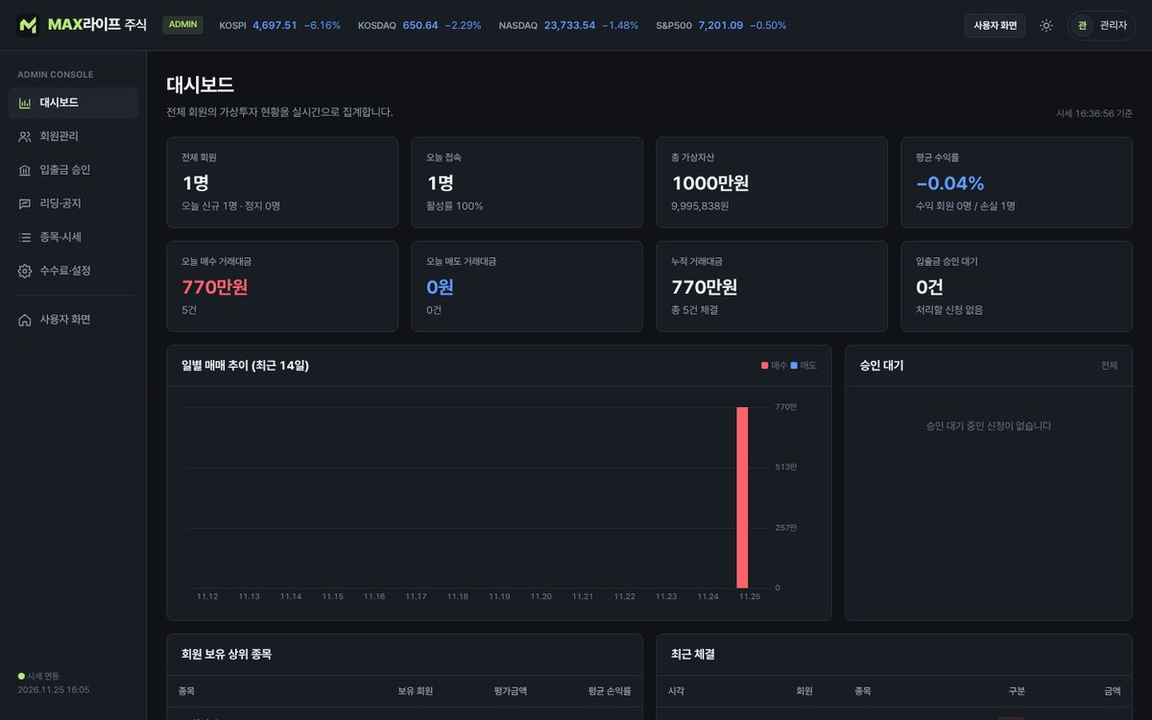
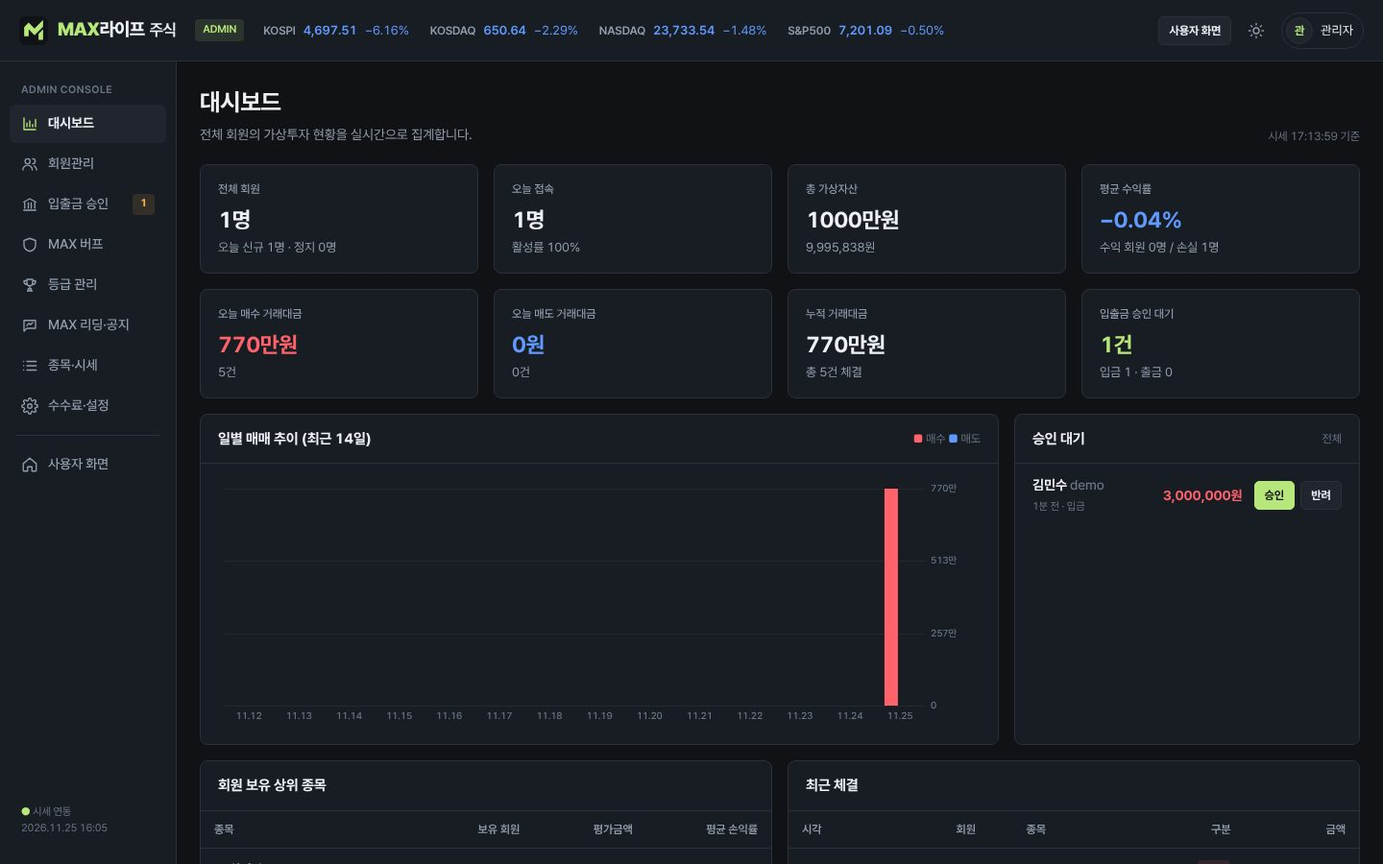
MAX라이프 주식 소개 갱신: 웹+PC 프로그램 다운로드, MAX AI 분석, 장 운영시간, 관리자 알림·회원 요약, 새 화면
Claude-Session: https://claude.ai/code/session_01X4pNLYVBtyk6v579gMqgN8

diff --git a/index.html b/index.html
@@ -630,7 +630,7 @@ function bizExtra(app){
 
 function tblLabels(){document.querySelectorAll('.mlx-t').forEach(t=>{const hs=[...t.querySelectorAll('thead th')].map(h=>h.textContent);t.querySelectorAll('tbody tr, tfoot tr').forEach(tr=>[...tr.children].forEach((td,i)=>{if(!td.dataset.l)td.dataset.l=hs[i]||''}))})}
 const TUTOR_CARD_IMAGES=[['화이트','1%',art('card-white')],['블루','3%',art('card-blue')],['레드','5%',art('card-red')],['블랙','10%',art('card-black')]];
-function cardJoinMarkup(key,place){const tiers=TUTOR_CARD_IMAGES;const names={tutor:'MAXDAY 교육',market:'MAXDAY 행사 비교견적',pos:'MAXDAY POS',box:'MAXDAY 랜덤박스',tv:'MAXDAY TV',fortune:'MAXDAY 운세',play:'MAXDAY 게임',connect:'MAXDAY 인연',funding:'MAXDAY 제작 후원',study:'MAXDAY 유학',stay:'MAXDAY 스테이',biseo:'MAXDAY 비서',road:'MAXDAY 로드세이프티',lang:'MAXDAY 언어의 마술사',stock:'MAX라이프 주식',device:'MAXDAY 기기',kiosk:'MAXDAY 키오스크',platform:'맥스데이 플랫폼'};const events={tutor:'기관 구독료 무료 · 강사 지원 무료 · 공고 등록 무료 · MAX 포인트 증정',market:'회원비 면제 · 입찰 수수료 할인 · MAX 포인트 증정',pos:'POS 이용료 면제·할인 · 손님 즉시 할인 · MAX 포인트 증정',box:'첫 박스 할인 · 구매액 기준 적립 · MAX 포인트 증정',tv:'월간 패스 무료 · 콘텐츠 이용 할인 · MAX 포인트 증정',fortune:'운세 멤버십 무료 · 유료 풀이 할인 · MAX 포인트 증정',play:'무료 플레이 패스 · 게임 이용 할인 · MAX 포인트 증정',connect:'프리미엄 무료 · 인연 콘텐츠 혜택 · MAX 포인트 증정',funding:'후원 리워드 추가 · 프로젝트 혜택 · MAX 포인트 증정',study:'정착 패키지 무료 · 휴대폰 개통 할인 · MAX 포인트 증정',stay:'예약 수수료 무료 · 행사 패키지 할인 · MAX 포인트 증정',device:'기기 구매 할인 · 프로그램 1년 무료 · MAX 포인트 증정',biseo:'비서 구독료 무료 · 프리미엄 기능 무료 · MAX 포인트 증정',stock:'투자 교육 리딩 무료 · 체험 머니 충전 할인 · MAX 포인트 증정',lang:'프리미엄 1개월 무료 · 사주 궁합 무료 · MAX 포인트 증정',road:'협력사 가입비 무료 · 첫 낙찰 수수료 할인 · MAX 포인트 증정',kiosk:'프로그램 이용료 할인 · 이용 혜택 · MAX 포인트 증정',platform:'서비스별 무료·할인 · 결제 혜택 · MAX 포인트 증정'};const tierBenefits={tutor:['기관 구독료 무료','강사 지원 무료','공고 등록 무료','MAX 포인트 증정'],market:['회원비 할인','입찰 수수료 할인','회원비 면제','MAX 포인트 증정'],pos:['POS 이용료 할인','가맹점 할인 혜택','POS 이용료 면제','MAX 포인트 증정'],box:['첫 박스 할인','구매액 적립 혜택','보관함 배송 혜택','MAX 포인트 증정'],tv:['월간 패스 할인','단건 시청 할인','월간 패스 무료','MAX 포인트 증정'],fortune:['유료 풀이 할인','멤버십 이용 혜택','멤버십 무료 시안','MAX 포인트 증정'],play:['플레이 패스 할인','게임 이용 혜택','무료 플레이 패스','MAX 포인트 증정'],connect:['프리미엄 할인','인연 콘텐츠 혜택','프리미엄 무료 시안','MAX 포인트 증정'],funding:['후원 혜택 추가','리워드 이용 혜택','후원 리워드 추가','MAX 포인트 증정'],study:['정착 패키지 무료','휴대폰 개통 할인','학비·생활비 결제 혜택','MAX 포인트 증정'],device:['기기 구매 할인','프로그램 1년 무료','렌탈료 할인','MAX 포인트 증정'],stay:['예약 수수료 무료','행사 패키지 할인','숙박·식비 카드 결제','MAX 포인트 증정'],biseo:['비서 구독료 무료','프리미엄 기능 무료','PC 추가 등록 무료','MAX 포인트 증정'],stock:['투자 교육 리딩 무료','체험 머니 충전 할인','충전 카드 결제','MAX 포인트 증정'],lang:['프리미엄 1개월 무료','사주 궁합 무료','구독료 카드 결제','MAX 포인트 증정'],road:['협력사 가입비 무료','첫 낙찰 수수료 할인','수수료 카드 결제','MAX 포인트 증정'],kiosk:['프로그램 이용료 할인','현장 이용 혜택','패키지 할인 시안','MAX 포인트 증정'],platform:['서비스 할인 혜택','구독료 할인','플랫폼 이용 혜택','MAX 포인트 증정']};const headline=key==='study'?'외화 송금 없이, USDT만 충전하면<br>한국 학비·등록금·생활비를 바로 카드로':'코인 충전해서 바로 쓰는 카드,<br>결제·출금·이체에 MAX 포인트 적립까지';const sub=key==='study'?'본국에서 USDT를 카드에 충전하면 등록금·기숙사비·휴대폰·월세·생활비를 한국에서 바로 결제합니다. 필요하면 출금·이체도 되고, 쓸 때마다 MAX 포인트가 적립됩니다. 외화 송금·환전 절차가 필요 없습니다.':'USDT 등 크립토 충전 → 바로 카드 결제 → 필요하면 출금·이체 → 쓸 때마다 MAX 포인트 적립. 충전 수단과 이용 범위는 제휴 발급사 기준으로 안내합니다.';const event=events[key]||events.platform;const rates=[['화이트','1%'],['블루','3%'],['레드','5%'],['블랙','10%']];return `<div class="page mlx-card-join ${key} ${place}"><section class="section mlx-card-benefit"><div class="eyebrow">MAX DAY LIFE CARD · ${names[key]||names.platform} 발급 이벤트 · 시안 예시</div><h2 class="mlx-card-main-headline">${headline}</h2><p class="mlx-card-main-copy">${sub}</p><div class="mlx-card-flow" aria-label="카드 이용 흐름">${[['01','충전','USDT 등 제휴 충전 수단'],['02','결제','매장·플랫폼 카드 결제'],['03','출금·이체','발급사 정책에 따른 이용'],['04','MAX 적립','결제금액 기준 적립 시안']].map(([n,t,d])=>`<article><small>${n}</small><b>${t}</b><span>${d}</span></article>`).join('')}</div><p class="mlx-card-issue-event"><b>카드 발급 이벤트 · 시안</b><span>${event}</span></p><div class="mlx-card-levels">${tiers.map(([n,rate,img],i)=>`<article><img src="${img}" alt="맥스데이 라이프 ${n} 카드"><div class="mlx-card-level-info"><b>${n}</b><span class="tag">결제액 ${rate} MAX 적립</span><p>${(tierBenefits[key]||tierBenefits.platform)[i]}</p></div></article>`).join('')}</div><a class="btn primary mlx-card-apply" href="#cards">맥스데이 라이프 카드 신청</a><p class="mlx-card-legal-note">충전·출금·이체는 제휴 발급사 정책과 관련 법령에 따르며, 디지털자산은 가격 변동이 있습니다.</p></section></div>`}
+function cardJoinMarkup(key,place){const tiers=TUTOR_CARD_IMAGES;const names={tutor:'MAXDAY 교육',market:'MAXDAY 행사 비교견적',pos:'MAXDAY POS',box:'MAXDAY 랜덤박스',tv:'MAXDAY TV',fortune:'MAXDAY 운세',play:'MAXDAY 게임',connect:'MAXDAY 인연',funding:'MAXDAY 제작 후원',study:'MAXDAY 유학',stay:'MAXDAY 스테이',biseo:'MAXDAY 비서',road:'MAXDAY 로드세이프티',lang:'MAXDAY 언어의 마술사',stock:'MAX라이프 주식',device:'MAXDAY 기기',kiosk:'MAXDAY 키오스크',platform:'맥스데이 플랫폼'};const events={tutor:'기관 구독료 무료 · 강사 지원 무료 · 공고 등록 무료 · MAX 포인트 증정',market:'회원비 면제 · 입찰 수수료 할인 · MAX 포인트 증정',pos:'POS 이용료 면제·할인 · 손님 즉시 할인 · MAX 포인트 증정',box:'첫 박스 할인 · 구매액 기준 적립 · MAX 포인트 증정',tv:'월간 패스 무료 · 콘텐츠 이용 할인 · MAX 포인트 증정',fortune:'운세 멤버십 무료 · 유료 풀이 할인 · MAX 포인트 증정',play:'무료 플레이 패스 · 게임 이용 할인 · MAX 포인트 증정',connect:'프리미엄 무료 · 인연 콘텐츠 혜택 · MAX 포인트 증정',funding:'후원 리워드 추가 · 프로젝트 혜택 · MAX 포인트 증정',study:'정착 패키지 무료 · 휴대폰 개통 할인 · MAX 포인트 증정',stay:'예약 수수료 무료 · 행사 패키지 할인 · MAX 포인트 증정',device:'기기 구매 할인 · 프로그램 1년 무료 · MAX 포인트 증정',biseo:'비서 구독료 무료 · 프리미엄 기능 무료 · MAX 포인트 증정',stock:'MAX AI 분석 베이직 무료 · MAX 리딩 무료 · MAX 포인트 증정',lang:'프리미엄 1개월 무료 · 사주 궁합 무료 · MAX 포인트 증정',road:'협력사 가입비 무료 · 첫 낙찰 수수료 할인 · MAX 포인트 증정',kiosk:'프로그램 이용료 할인 · 이용 혜택 · MAX 포인트 증정',platform:'서비스별 무료·할인 · 결제 혜택 · MAX 포인트 증정'};const tierBenefits={tutor:['기관 구독료 무료','강사 지원 무료','공고 등록 무료','MAX 포인트 증정'],market:['회원비 할인','입찰 수수료 할인','회원비 면제','MAX 포인트 증정'],pos:['POS 이용료 할인','가맹점 할인 혜택','POS 이용료 면제','MAX 포인트 증정'],box:['첫 박스 할인','구매액 적립 혜택','보관함 배송 혜택','MAX 포인트 증정'],tv:['월간 패스 할인','단건 시청 할인','월간 패스 무료','MAX 포인트 증정'],fortune:['유료 풀이 할인','멤버십 이용 혜택','멤버십 무료 시안','MAX 포인트 증정'],play:['플레이 패스 할인','게임 이용 혜택','무료 플레이 패스','MAX 포인트 증정'],connect:['프리미엄 할인','인연 콘텐츠 혜택','프리미엄 무료 시안','MAX 포인트 증정'],funding:['후원 혜택 추가','리워드 이용 혜택','후원 리워드 추가','MAX 포인트 증정'],study:['정착 패키지 무료','휴대폰 개통 할인','학비·생활비 결제 혜택','MAX 포인트 증정'],device:['기기 구매 할인','프로그램 1년 무료','렌탈료 할인','MAX 포인트 증정'],stay:['예약 수수료 무료','행사 패키지 할인','숙박·식비 카드 결제','MAX 포인트 증정'],biseo:['비서 구독료 무료','프리미엄 기능 무료','PC 추가 등록 무료','MAX 포인트 증정'],stock:['MAX AI 분석 베이직 무료','MAX 리딩 무료','충전 카드 결제','MAX 포인트 증정'],lang:['프리미엄 1개월 무료','사주 궁합 무료','구독료 카드 결제','MAX 포인트 증정'],road:['협력사 가입비 무료','첫 낙찰 수수료 할인','수수료 카드 결제','MAX 포인트 증정'],kiosk:['프로그램 이용료 할인','현장 이용 혜택','패키지 할인 시안','MAX 포인트 증정'],platform:['서비스 할인 혜택','구독료 할인','플랫폼 이용 혜택','MAX 포인트 증정']};const headline=key==='study'?'외화 송금 없이, USDT만 충전하면<br>한국 학비·등록금·생활비를 바로 카드로':'코인 충전해서 바로 쓰는 카드,<br>결제·출금·이체에 MAX 포인트 적립까지';const sub=key==='study'?'본국에서 USDT를 카드에 충전하면 등록금·기숙사비·휴대폰·월세·생활비를 한국에서 바로 결제합니다. 필요하면 출금·이체도 되고, 쓸 때마다 MAX 포인트가 적립됩니다. 외화 송금·환전 절차가 필요 없습니다.':'USDT 등 크립토 충전 → 바로 카드 결제 → 필요하면 출금·이체 → 쓸 때마다 MAX 포인트 적립. 충전 수단과 이용 범위는 제휴 발급사 기준으로 안내합니다.';const event=events[key]||events.platform;const rates=[['화이트','1%'],['블루','3%'],['레드','5%'],['블랙','10%']];return `<div class="page mlx-card-join ${key} ${place}"><section class="section mlx-card-benefit"><div class="eyebrow">MAX DAY LIFE CARD · ${names[key]||names.platform} 발급 이벤트 · 시안 예시</div><h2 class="mlx-card-main-headline">${headline}</h2><p class="mlx-card-main-copy">${sub}</p><div class="mlx-card-flow" aria-label="카드 이용 흐름">${[['01','충전','USDT 등 제휴 충전 수단'],['02','결제','매장·플랫폼 카드 결제'],['03','출금·이체','발급사 정책에 따른 이용'],['04','MAX 적립','결제금액 기준 적립 시안']].map(([n,t,d])=>`<article><small>${n}</small><b>${t}</b><span>${d}</span></article>`).join('')}</div><p class="mlx-card-issue-event"><b>카드 발급 이벤트 · 시안</b><span>${event}</span></p><div class="mlx-card-levels">${tiers.map(([n,rate,img],i)=>`<article><img src="${img}" alt="맥스데이 라이프 ${n} 카드"><div class="mlx-card-level-info"><b>${n}</b><span class="tag">결제액 ${rate} MAX 적립</span><p>${(tierBenefits[key]||tierBenefits.platform)[i]}</p></div></article>`).join('')}</div><a class="btn primary mlx-card-apply" href="#cards">맥스데이 라이프 카드 신청</a><p class="mlx-card-legal-note">충전·출금·이체는 제휴 발급사 정책과 관련 법령에 따르며, 디지털자산은 가격 변동이 있습니다.</p></section></div>`}
 function addCardJoin(app,key){if(!app)return;app.querySelectorAll('.mlx-card-join').forEach(e=>e.remove());const hero=app.querySelector('.subhero,.hero');if(hero)hero.insertAdjacentHTML('afterend',cardJoinMarkup(key,'top'));else app.insertAdjacentHTML('afterbegin',cardJoinMarkup(key,'top'));app.insertAdjacentHTML('beforeend',cardJoinMarkup(key,'bottom'))}
 function tutorScreensMarkup(){const raw=[
 ["main","메인","강사 구인구직 서비스의 첫 화면입니다. 강사는 공고 탐색으로, 기관은 채용 등록과 인재 검색으로 이동합니다."],["jobs","공고 찾기","지역과 강의 분야를 기준으로 모집 공고를 찾고 접수 상태와 마감 정보를 비교합니다."],["job-detail","공고 상세","기관이 등록한 모집 요건, 근무 조건과 일정을 확인한 뒤 지원 여부를 결정합니다."],["recruit-calendar","공고 달력 · 스케줄","공고 마감일과 채용 일정을 달력에서 확인해 지원·전형 일정을 관리합니다."],["pricing","요금제","기관 구독 상품과 제공 범위를 비교합니다. 카드 신청 기관은 구독료 면제 시안 혜택을 확인할 수 있습니다."],["instructor-benefits","강사 혜택","강사 대상 혜택과 이용 조건을 확인하는 서비스 안내 화면입니다."],["partner-discounts","제휴 할인","제휴처별 할인 항목과 적용 조건을 모아 강사가 확인할 수 있습니다."],["branch-recruitment","지사 모집","지역 운영 파트너의 역할과 지원 절차를 안내합니다. 수익 배분 조건은 계약으로 정합니다."],["org-dashboard","기관 콘솔 · 대시보드","기관 담당자가 공고, 지원자, 강사 검색과 채용 현황을 한곳에서 확인합니다."],["applicant-management","기관 콘솔 · 지원자 관리","지원서를 단계별 파이프라인으로 검토하고 상태와 후속 조치를 관리합니다."],["instructor-search","기관 콘솔 · 강사 검색","경력과 전문 분야에 맞는 강사 프로필을 검색하고 채용 후보를 비교합니다."],["posting-ai-check","기관 콘솔 · 공고 AI 점검","공고 등록 단계에서 누락 항목과 표현을 점검해 게시 전 내용을 검토합니다."],["instructor-mypage","강사 마이페이지","강사가 프로필과 지원 현황, 관심 공고 등 개인 이용 정보를 관리합니다."],["resume","강사 이력서","학력·경력·강의 분야와 자격 정보를 정리해 기관 지원에 활용합니다."],["admin-public-auto-collect","관리자 · 공공공고 자동 수집","전국 95곳 공공기관의 채용 공고를 자동 수집하는 관리자 화면입니다. 수집 대상과 운영 상태를 관리합니다."],["admin-dashboard","관리자 · 대시보드","운영 지표와 공고·기관 현황을 확인하고 데이터 신뢰 지표를 점검합니다."],["mobile-main","모바일 · 메인","모바일 화면에서 서비스 안내와 공고 탐색 진입점을 확인합니다."],["mobile-jobs","모바일 · 공고 찾기","휴대전화에서 공고 목록을 살펴보고 조건에 맞는 모집 정보를 찾습니다."],["mobile-calendar","모바일 · 공고 달력","모바일 달력에서 공고 마감과 채용 일정을 확인합니다."]];const screens=raw.map(([file,title,detail],i)=>({file,title,detail,n:i+1})),desktop=screens.filter(x=>!x.title.startsWith('모바일')),mobile=screens.filter(x=>x.title.startsWith('모바일')),card=x=>`<article class="mlx-tutor-capture"><div class="mlx-tutor-frame"><div class="tutor-browser-bar"><span>MAXDAY 교육</span><span>실제 서비스 화면 · ${String(x.n).padStart(2,'0')} / 19</span></div><a class="mlx-tutor-image-link" href="assets/tutor-real/${x.file}.jpg" target="_blank" rel="noopener" aria-label="${x.title} 화면을 크게 보기"><img src="assets/tutor-real/${x.file}.jpg" alt="MAXDAY 교육 ${x.title} 실제 화면" loading="lazy"></a></div><div class="mlx-tutor-capture-copy"><span class="tag">${String(x.n).padStart(2,'0')} · 실제 화면</span><h3>${x.title}</h3><p>${x.detail}</p></div></article>`;return `<div class="page mlx-tutor-page-wrap"><section class="section mlx-tutor-real-screens"><div class="heading"><div><span class="eyebrow">MAX DAY LIFE TUTOR · 19 REAL CAPTURES</span><h2>MAXDAY 교육 실제 화면 둘러보기</h2><p class="muted">PC 사이트·기관 콘솔 화면을 먼저 확인하고, 아래에서 강사용 모바일 화면을 이어서 볼 수 있습니다.</p></div></div><div class="mlx-tutor-proof"><div><strong>95곳</strong><span>전국 공공기관 공고 자동 수집</span></div><div><strong>마감일</strong><span>공채 달력·스케줄 확인</span></div><div><strong>채용 흐름</strong><span>AI 공고 점검 · 지원자 파이프라인</span></div><div><strong>운영 지표</strong><span>신뢰 지표 · 지역 지사 배분 관리</span></div></div><div class="mlx-tutor-capture-grid">${desktop.map(card).join('')}</div><div class="mlx-tutor-mobile-section"><div class="mlx-study-group-head"><div><span class="eyebrow">03 MOBILE CAPTURES</span><h3>강사 연결 모바일 화면</h3><p>휴대전화에서 메인·공고 탐색·공채 일정을 확인하는 화면입니다.</p></div></div><div class="mlx-tutor-mobile-rail">${mobile.map(card).join('')}</div></div><p class="tiny muted">화면은 첨부된 실제 사이트 캡처입니다. 공고·운영 지표는 서비스 데이터와 운영 시점에 따라 달라질 수 있습니다.</p></section></div>`}
@@ -787,7 +787,7 @@ const HOME_PLAT=[
   ['biseo','MAXDAY 비서','카카오톡·PC 업무 자료를 내 PC 안에서만 정리하는 로컬 업무 비서.',()=> 'biseo/img/k2_kakao.png','biseo/index.html',['카카오톡 자료 정리','외부 전송 없음','AES-256 암호화']],
   ['road','MAXDAY 로드세이프티','도로 공사 차단 작업을 협력사에게 나누는 입찰 시스템. 공고·입찰·낙찰·수수료 납부까지.',()=> 'assets/plat/road-public.jpg','road/auth/login.html',['협력사 입찰','발주처 공사 등록','3% 중개수수료']],
   ['lang','MAXDAY 언어의 마술사','내 말로 쓰면 상대 언어로. 카카오톡·위챗·LINE 그대로 외국 친구와 대화하는 도우미.',()=> 'assets/plat/lang-chat.jpg','https://whaleguard.github.io/language-magician/',['5개 언어','8개 메신저','관계·일정 관리']],
-  ['stock','MAX라이프 주식','실제 장 시세로 매수·매도를 연습하는 가상 모의투자 교육. 홈페이지와 전용 HTS 프로그램.',()=> 'assets/plat/stock-pc-stock.jpg','https://whaleguard.github.io/maxlife-stock/',['실제 시세 연동','가상 계좌','투자 교육 리딩']],
+  ['stock','MAX라이프 주식','국내·미국 전 종목 실시세 HTS. 웹과 Windows·Mac 프로그램이 같은 계좌로 연동, MAX AI 분석·MAX 버프.',()=> 'assets/plat/stock-pc-stock.jpg','https://whaleguard.github.io/maxlife-stock/',['실시세 HTS','MAX AI 분석','PC 프로그램']],
   ['tv','MAXDAY TV','오리지널 영상 단건 시청과 월간 패스. 카드 발급 시 패스 무료.',()=>art('poster-1'),'',['오리지널','월간 패스','제작 후원']]
 ];
 const HOME_SVC=[
@@ -821,7 +821,7 @@ const MXR={
   tutor:['MAXDAY 교육','기관이 구독·채용 서비스를 결제할 때마다',3,'99,000원'],
   events:['MAXDAY 행사 비교견적','행사를 계약할 때마다',1,'2,000,000원'],
   stay:['MAXDAY 스테이','수련원·행사 패키지를 예약할 때마다',1,'3,000,000원'],
-  biseo:['MAXDAY 비서','비서 구독료를 결제할 때마다',10,'9,900원'],stock:['MAX라이프 주식','친구가 체험 머니를 충전할 때마다',10,'50,000원'],lang:['MAXDAY 언어의 마술사','친구가 프리미엄을 구독할 때마다',10,'9,900원'],road:['MAXDAY 로드세이프티','협력사가 낙찰 수수료를 낼 때마다',3,'354,000원'],
+  biseo:['MAXDAY 비서','비서 구독료를 결제할 때마다',10,'9,900원'],stock:['MAX라이프 주식','친구가 충전하거나 AI 월정액을 구독할 때마다',10,'50,000원'],lang:['MAXDAY 언어의 마술사','친구가 프리미엄을 구독할 때마다',10,'9,900원'],road:['MAXDAY 로드세이프티','협력사가 낙찰 수수료를 낼 때마다',3,'354,000원'],
   platform:['맥스데이 라이프 서비스','어느 서비스든 결제할 때마다',3,'30,000원']
 };
 const MXR_RATES=[['MAXDAY 랜덤박스',3],['MAXDAY 운세',5],['MAXDAY TV',5],['MAXDAY 인연',5],['MAXDAY 게임',3],['MAXDAY 키오스크',3],['MAXDAY 제작 후원',2],['MAXDAY POS 가맹점',1],['MAXDAY 기기 구매·렌탈',1],['MAXDAY 유학 (카드 결제)',1],['MAXDAY 교육',3],['MAXDAY 행사 비교견적',1],['MAXDAY 스테이',1],['MAXDAY 비서',10]];
@@ -1241,25 +1241,35 @@ function langPage(){
  <div class="card pad"><span class="tag warm">REVENUE</span><h2 style="margin-top:12px">수익 구조 (예시)</h2>${ROW('기본','게스트·무료 번역으로 바로 사용')}${ROW('프리미엄 구독','AI 뉘앙스·답장·코칭 · 월 정액')}${ROW('부가 기능','사주 궁합 · 선물 추천 단건 결제')}${ROW('기업·학교','유학생·외국인 직원 단체 라이선스')}${ROW('MAX 카드 연동','구독·결제를 맥스데이 라이프 카드로')}</div></section>
  <section class="section"><div class="val-act"><a class="btn primary" href="${LANG_SITE}" target="_blank" rel="noopener">언어의 마술사 열기 ↗</a><a class="btn" href="#platform">플랫폼 전체 보기</a></div></section></div>`}
 
-/* ---------- MAX라이프 주식 (가상 모의투자 교육) ---------- */
-const STOCK_SITE='',STOCK_HTS='https://whaleguard.github.io/maxlife-stock/',STOCK_ADMIN='https://whaleguard.github.io/maxlife-stock/admin.html';
+/* ---------- MAX라이프 주식 (실시세 HTS · 웹 + PC 프로그램) ---------- */
+const STOCK_SITE='',STOCK_HTS='https://whaleguard.github.io/maxlife-stock/',STOCK_ADMIN='https://whaleguard.github.io/maxlife-stock/admin.html',STOCK_DL='https://github.com/whaleguard/maxlife-stock/releases/latest/download/';
 function stockPage(){
  const R='assets/plat/stock-';
- const goSite=(STOCK_SITE?`<a class="btn primary" href="${STOCK_SITE}" target="_blank" rel="noopener">홈페이지 ↗</a>`:`<span class="btn primary" style="opacity:.6;cursor:default">홈페이지 오픈 준비 중</span>`),go=(STOCK_HTS?`<a class="btn primary" href="${STOCK_HTS}" target="_blank" rel="noopener">HTS 실행 (수강생) ↗</a><a class="btn" href="${STOCK_ADMIN}" target="_blank" rel="noopener">관리자 화면 ↗</a>`:`<span class="btn" style="opacity:.6;cursor:default">HTS 프로그램 배포 준비 중</span>`)+goSite;
- const K=[['9,500여 종목','코스피·코스닥·ETF·미국 전 종목 실제 시세 · 5분 갱신'],['가상 예수금','실제 돈이 오가지 않는 연습용 계좌'],['실전과 같은 주문','시장가 · 지정가 · 정정 · 취소 · 호가 단위 · 상하한가'],['투자 교육 리딩','매매 원리와 차트 읽는 법 해설'],['회원 공유 서버','가입·주문·잔고가 서버에 저장 · 모든 기기·관리자 동기화'],['홈페이지 · HTS 분리','가입·충전·리딩은 홈페이지 · 매매는 전용 HTS 프로그램']];
- const STEP=[['01','홈페이지 가입','닉네임으로 가입 · 모의투자 계좌 개설 · HTS 프로그램 설치'],['02','체험 머니 충전','MAX 포인트 또는 현금(카드)으로 체험 머니 구매'],['03','HTS로 매매','HTS 프로그램에서 실제 장 시세로 주문 · 체결 연습'],['04','잔고 · 수익률','보유 종목 · 평가 손익 · 거래 내역 확인'],['05','리딩룸 · 랭킹','교육 리딩으로 배우고 수익률 랭킹 도전']];
- const U=[['홈','관심 종목 · 지수 · 내 계좌 요약'],['주문','현재가 · 호가 · 차트 · 시장가/지정가 주문'],['잔고','보유 종목 · 평균 단가 · 평가 손익 · 수익률'],['거래 내역','체결 · 미체결 · 정정 · 취소 기록'],['입출금','체험 머니 입금 · 출금 신청 (가상)'],['리딩룸','투자 교육 리딩 · 공지 · 댓글'],['랭킹','기간별 수익률 순위'],['마이','계좌 정보 · 알림 · 설정']];
- const A=[['대시보드','회원 수 · 거래 대금 · 체험 머니 충전 · 매입/매출 현황'],['회원 관리','회원별 보유 종목 · 수익률 · 매매 기록 · 이용 정지'],['입출금 승인','체험 머니 입금·출금 요청 승인 · 잔고 조정'],['리딩 · 공지','교육 리딩 작성 · 공지 · 댓글 관리'],['종목 · 수수료','거래 종목 관리 · 수수료·세금 설정'],['데이터','회원 · 거래 기록 내보내기']];
- return shero(R+'art.jpg','MAX LIFE STOCK · 가상 모의투자','실전과 똑같이.<br>돈은 걸지 않고.','MAX라이프 주식은 실제 주식 프로그램과 같은 화면에서 가상 계좌로 매수·매도를 연습하는 모의투자 교육 서비스입니다. 실제 돈은 오가지 않고, 수익률·보유 종목·거래 내역까지 실전처럼 관리됩니다.')+`<div class="page">
- <section class="section">${H2('AT A GLANCE','서비스 한눈에 보기','모든 매매는 가상으로 체결되는 연습용입니다. 실제 주문이나 실제 입출금은 이뤄지지 않습니다.')}<div class="mxp-kpi">${K.map(([a,b])=>`<div class="card pad"><b>${a}</b><span class="muted tiny">${b}</span></div>`).join('')}</div><div class="val-act">${go}</div><p class="muted tiny" style="margin-top:10px">데모 계정 — 수강생 demo / demo1234 · 강사 teacher / teacher1234 · 관리자 admin / admin1234</p></section>
- <section class="section">${H2('HTS SCREENS','HTS 실제 화면 (수강생)','캔들 차트 · 10단계 호가 · 지정가/시장가 주문 · 정정/취소까지 증권사 HTS와 같은 구성입니다.')}<div class="mxp-gal">${MXP_FIG(R+'pc-home.jpg','홈 · 총 자산 · 지수 · 관심종목 · 실시간 랭킹')}${MXP_FIG(R+'pc-market.jpg','시세·순위 · 국내·미국 전 종목 · 거래대금·상승률·시가총액 순')}${MXP_FIG(R+'pc-watch.jpg','관심종목 · 그룹 관리 · 보유 수익률')}${MXP_FIG(R+'pc-stock.jpg','종목·주문 · 캔들 차트 · 볼린저·MACD · 10단계 호가 · 매수/매도')}${MXP_FIG(R+'pc-balance.jpg','잔고 · 평가 손익 · 수익률 추이 · 보유 종목')}${MXP_FIG(R+'pc-history.jpg','거래 내역 · 체결 · 미체결')}${MXP_FIG(R+'pc-cash.jpg','입출금 · 예수금 입금·출금 신청 (관리자 승인)')}${MXP_FIG(R+'pc-lead.jpg','리딩룸 · 강사의 교육용 매매 시연')}${MXP_FIG(R+'pc-rank.jpg','랭킹 · 수익률 순위')}${MXP_FIG(R+'m-stock.jpg','모바일 · 종목 주문')}</div></section>
- <section class="section">${H2('ADMIN SCREENS','관리자 실제 화면','전체 회원의 가상투자 현황, 입출금 승인, 리딩·공지, 수수료 설정을 관리합니다.')}<div class="mxp-gal">${MXP_FIG(R+'ad-dash.jpg','대시보드 · 회원 · 거래대금 · 일별 매매 추이')}${MXP_FIG(R+'ad-members.jpg','회원관리 · 총자산 · 수익률 · 보유 · 체결')}${MXP_FIG(R+'ad-acash.jpg','입출금 승인')}${MXP_FIG(R+'ad-stocks.jpg','종목·시세 관리 · 9,500여 종목 노출 설정')}${MXP_FIG(R+'ad-settings.jpg','수수료·세금·운영 설정')}</div></section>
+ const go=`<a class="btn primary" href="${STOCK_HTS}" target="_blank" rel="noopener">웹 HTS 실행 ↗</a><a class="btn" href="${STOCK_DL}MAXLife-Stock-Setup.exe">Windows 프로그램 받기</a><a class="btn" href="${STOCK_DL}MAXLife-Stock-mac-arm64.dmg">Mac 프로그램 받기</a><a class="btn" href="${STOCK_ADMIN}" target="_blank" rel="noopener">관리자 화면 ↗</a>`;
+ const K=[['9,500여 종목','코스피·코스닥·ETF·미국 전 종목 실제 시세'],['웹 + PC 프로그램','같은 계좌 실시간 연동 · Windows·Mac 설치판'],['MAX AI 분석','차트·수급·재무·뉴스·공시 점수화 · 추천종목'],['MAX 버프','순자산 1~3배 신용 · 담보비율 · 자동 청산'],['실제 장 운영시간','장전·정규장·동시호가·시간외·프리/애프터'],['MOA·코인 충전','MOA 토큰 · USDT · USDC · USD1 · MAX 포인트 · 카드']];
+ const F=[
+  ['HTS 매매','캔들 차트(분·일·주·월) · 이동평균·볼린저·RSI·MACD · 10단계 호가 · 지정가·시장가·감시주문(손절·익절·돌파)·시간외 주문 · 정정·취소 · 금액으로 수량 계산'],
+  ['장 운영 세션','국내 장전 시간외 종가 → 동시호가 → 정규장 → 마감 동시호가 → 장후 시간외 → 시간외 단일가, 미국 프리마켓·정규장·애프터마켓 · 휴장일 관리'],
+  ['MAX AI 분석 (월정액)','종목별 AI 점수(추세·모멘텀·수급·거래량·가격위치·재무·뉴스) · 지지·저항·손절 구간·손익비 · 매일 국내 680·미국 500종목 분석 추천 · 보유종목 일괄 진단'],
+  ['MAX 버프','순자산의 1·2·3배 지원 신청 → 관리자 승인 · 등급별 이자율·청산 기준 · 담보비율 게이지 · 기준 미달 시 자동 반대매매'],
+  ['시세·조건검색','시세·순위(거래대금·상승률·시가총액) · 조건검색 프리셋 · 관심종목 그룹 · 가격 알림 · 종목정보·투자자·뉴스·리포트'],
+  ['단축키 · 음성 안내','F2 매수 · F3 매도 · Ctrl+Enter 주문 · Alt+숫자 메뉴 이동 등 · 주문 접수·체결·입출금·버프 음성 안내 · 켜기/끄기'],
+  ['마이페이지','자산 추이 · 정산 내역 · 매수·매도 내역 · 입출금 · 버프 · 알림 · 다크/화이트 테마 · 계좌번호'],
+  ['MAX 리딩 · 랭킹 · 고객센터','MAX 리딩 글·공지 · 투자 수익 랭킹(전체·월·주) · 1:1 문의 · 운영 쪽지 · 알림센터'],
+ ];
+ const A=[['실시간 띵동 알림','입출금·버프·AI 구독 신청, 1:1 문의, 신규 가입, 담보 위험·자동 청산 시 소리·음성·팝업'],['회원 한눈에 보기','순자산·수익률·총 충전/출금·실현/평가손익·거래대금·수수료 · 접속 IP·지역·통신사·기기 · 접속 기록'],['승인 처리','입출금 · MAX 버프(배수 조정) · AI 구독 승인/반려 · 강제 청산'],['등급·요금 관리','이용자 등급(버프 배수·이자·청산 기준) · AI 요금제·무료 한도 · 수수료·세금 · 장 운영시간·휴장일 · 충전 수단'],['운영 수익','수수료·거래세·버프 이자·AI 구독 매출 · 일별 추이'],['회원 관리','쪽지 보내기(선택·전체) · 예수금 일괄 지급 · 1:1 문의 답변 · 계정 정지 · CSV']];
+ const STEP=[['01','가입','닉네임으로 가입 · 웹 또는 PC 프로그램'],['02','충전','계좌이체·카드·MOA 토큰·USDT·USDC·USD1·MAX 포인트'],['03','분석','MAX AI 추천종목 · 종목 분석 · MAX 리딩'],['04','매매','실시세로 매수·매도 · 감시주문 · 시간외 · MAX 버프'],['05','성과','잔고·정산·수익 랭킹 · 대회 참가']];
+ return shero(R+'pc-stock.jpg','MAX LIFE STOCK · 실시세 HTS','실전과 똑같이.<br>웹에서도, PC에서도.','MAX라이프 주식은 국내·미국 전 종목 실시세로 매매하는 HTS입니다. 웹과 Windows·Mac 프로그램이 같은 계좌로 연동되고, MAX AI 분석·MAX 버프·실제 장 운영시간까지 증권사 프로그램과 같은 구성입니다.')+`<div class="page">
+ <section class="section">${H2('AT A GLANCE','서비스 한눈에 보기')}<div class="mxp-kpi">${K.map(([a,b])=>`<div class="card pad"><b>${a}</b><span class="muted tiny">${b}</span></div>`).join('')}</div><div class="val-act">${go}</div><p class="muted tiny" style="margin-top:10px">시연 계정 — 이용자 demo / demo1234 · MAX 리딩 teacher / teacher1234 · 관리자 admin / admin1234</p></section>
+ <section class="section">${H2('SCREENS','이용자 화면','웹과 PC 프로그램이 같은 화면입니다.')}<div class="mxp-gal">${MXP_FIG(R+'pc-stock.jpg','종목·주문 · 차트 · 10단계 호가 · 시간외 주문 · 장 세션 안내')}${MXP_FIG(R+'pc-ai.jpg','MAX AI 추천종목 · 국내·미국 전 종목 분석')}${MXP_FIG(R+'pc-aia.jpg','MAX AI 종목 분석 · 점수 · 지지/저항 · 판단 근거')}${MXP_FIG(R+'pc-home.jpg','홈 · 순자산 · 지수 · 장 운영 현황')}${MXP_FIG(R+'pc-market.jpg','시세·순위 · 국내·미국 장 세션 시간표')}${MXP_FIG(R+'pc-buff.jpg','MAX 버프 · 배수 신청 · 담보비율')}${MXP_FIG(R+'pc-rank.jpg','투자 수익 랭킹')}${MXP_FIG(R+'pc-my.jpg','마이페이지 · 정산·입출금·매매 내역')}${MXP_FIG(R+'pc-keys.jpg','단축키 안내 (F1)')}${MXP_FIG(R+'pc-download.jpg','PC 프로그램 내려받기 · Windows·Mac')}${MXP_FIG(R+'pc-light.jpg','화이트 테마')}</div></section>
+ <section class="section">${H2('ADMIN','관리자 화면')}<div class="mxp-gal">${MXP_FIG(R+'ad-toast.jpg','실시간 띵동 알림 · 처리할 알림 목록')}${MXP_FIG(R+'ad-md.jpg','회원 한눈에 보기 · 충전·손익·보유자산 · 접속 IP·지역')}${MXP_FIG(R+'ad-subs.jpg','AI 구독 승인 · 요금제 설정')}${MXP_FIG(R+'ad-buffs.jpg','MAX 버프 승인 · 담보비율 · 강제 청산')}${MXP_FIG(R+'ad-dash.jpg','대시보드 · 운영 수익')}</div></section>
+ <section class="section">${H2('FEATURES','이용자 기능')}<div class="mxp-steps">${F.map(([t,d],i)=>`<div class="card pad"><small class="mxp-n">${String(i+1).padStart(2,'0')}</small><b>${t}</b><p class="muted tiny">${d}</p></div>`).join('')}</div></section>
+ <section class="section two"><div class="card pad"><span class="tag">ADMIN</span><h2 style="margin-top:12px">관리자 기능</h2>${A.map(([a,b])=>ROW(a,b)).join('')}</div>
+ <div class="card pad"><span class="tag warm">DOWNLOAD</span><h2 style="margin-top:12px">PC 프로그램</h2><p class="muted tiny">웹과 같은 계좌·주문·잔고가 실시간으로 연동됩니다. 창 여러 개 · 트레이 알림 · 자동 업데이트.</p>${ROW('Windows 10·11','<a href="'+STOCK_DL+'MAXLife-Stock-Setup.exe">설치판 .exe</a> · <a href="'+STOCK_DL+'MAXLife-Stock-Portable.exe">휴대용</a>')}${ROW('macOS','<a href="'+STOCK_DL+'MAXLife-Stock-mac-arm64.dmg">Apple Silicon</a> · <a href="'+STOCK_DL+'MAXLife-Stock-mac-x64.dmg">Intel</a>')}${ROW('웹 버전',`<a href="${STOCK_HTS}" target="_blank" rel="noopener">${STOCK_HTS.replace('https://','')}</a>`)}</div></section>
  <section class="section">${H2('HOW IT WORKS','이렇게 이용합니다')}<div class="mxp-steps">${STEP.map(([n,t,d])=>`<div class="card pad"><small class="mxp-n">STEP ${n}</small><b>${t}</b><p class="muted tiny">${d}</p></div>`).join('')}</div></section>
- <section class="section two"><div class="card pad"><span class="tag">HTS PROGRAM</span><h2 style="margin-top:12px">HTS 프로그램 (매매 전용)</h2><p class="muted tiny">홈페이지와 별도로 실행되는 전용 프로그램입니다. 실제 증권사 HTS와 같은 화면 구성으로 연습합니다.</p>${U.map(([a,b])=>ROW(a,b)).join('')}</div>
- <div class="card pad"><span class="tag warm">ADMIN</span><h2 style="margin-top:12px">관리자 화면 (홈페이지)</h2>${A.map(([a,b])=>ROW(a,b)).join('')}</div></section>
- <section class="section">${H2('CONTEST','MAX라이프 모의투자 대회','MAX 코인 출시에 맞춰 여는 시즌제 이벤트입니다. 같은 체험 머니로 시작해 정해진 기간 동안 수익률로 겨룹니다.')}<div class="mxp-steps">${[['시즌','4주 단위 · 분기별 1회','같은 출발 금액 (체험 머니 1,000만 원)'],['참가','홈페이지에서 신청','카드 발급 회원은 참가비 무료'],['순위','HTS 실시간 수익률 랭킹','최대 낙폭 · 거래 횟수 기준 함께 공개'],['시상','1~10위 MAX 코인 지급','부문상: 꾸준상 · 신인상 · 리딩룸 우수 후기'],['공정성','같은 시세 · 같은 수수료','중복 계정 · 자동 매매 실격']].map(([t,a,b])=>`<div class="card pad"><b>${t}</b><p class="muted tiny">${a}<br>${b}</p></div>`).join('')}</div></section>
- <section class="section two"><div class="card pad"><span class="tag">MAX CARD BENEFIT</span><h2 style="margin-top:12px">맥스데이 라이프 카드 혜택</h2>${ROW('카드 발급 회원','투자 교육 리딩 무료')}${ROW('체험 머니','MAX 포인트로 충전 · 결제 적립')}${ROW('리딩룸','매매 원리 · 차트 해설 · 시장 공부')}${ROW('랭킹 이벤트','월간 수익률 상위 회원 MAX 포인트 지급')}</div>
- <div class="card pad"><span class="tag warm">REVENUE</span><h2 style="margin-top:12px">수익 구조 (예시)</h2>${ROW('체험 머니 판매','MAX 포인트 · 현금(카드) 결제')}${ROW('교육 멤버십','리딩룸 · 강의 월 정액 (카드 회원 무료)')}${ROW('기업 · 학교','경제 교육 단체 라이선스')}${ROW('카드 발급 연계','모의투자 회원 → 맥스데이 라이프 카드')}</div></section>
+ <section class="section">${H2('CONTEST','MAX라이프 투자 대회','MAX 코인 출시에 맞춰 여는 시즌제 이벤트입니다. 같은 금액으로 시작해 정해진 기간 동안 수익률로 겨룹니다.')}<div class="mxp-steps">${[['시즌','4주 단위 · 분기별 1회','같은 출발 금액'],['참가','HTS에서 신청','카드 발급 회원 참가비 무료'],['순위','실시간 수익률 랭킹','최대 낙폭 · 거래 횟수 함께 공개'],['시상','1~10위 MAX 코인 지급','부문상: 꾸준상 · 신인상']].map(([a,b,c])=>`<div class="card pad"><b>${a}</b><p class="muted tiny">${b}<br>${c}</p></div>`).join('')}</div></section>
+ <section class="section two"><div class="card pad"><span class="tag">MAX CARD BENEFIT</span><h2 style="margin-top:12px">맥스데이 라이프 카드 혜택</h2>${ROW('MAX AI 분석','카드 회원 베이직 무료')}${ROW('MAX 리딩','카드 회원 무료')}${ROW('충전','MAX 포인트 충전 · 결제 적립')}${ROW('랭킹 이벤트','월간 수익률 상위 MAX 포인트 지급')}</div>
+ <div class="card pad"><span class="tag warm">REVENUE</span><h2 style="margin-top:12px">수익 구조</h2>${ROW('MAX AI 월정액','베이직 · 프로 (관리자 요금 설정)')}${ROW('매매 수수료·거래세','관리자 요율 설정')}${ROW('MAX 버프 이자','등급별 이자율')}${ROW('충전','MOA·코인·MAX 포인트·카드')}${ROW('카드 발급 연계','HTS 이용자 → 맥스데이 라이프 카드')}</div></section>
  <section class="section"><div class="val-act">${go}<a class="btn" href="#cards">맥스데이 라이프 카드 보기</a><a class="btn" href="#platform">플랫폼 전체 보기</a></div></section></div>`}
 
 function patch(){
